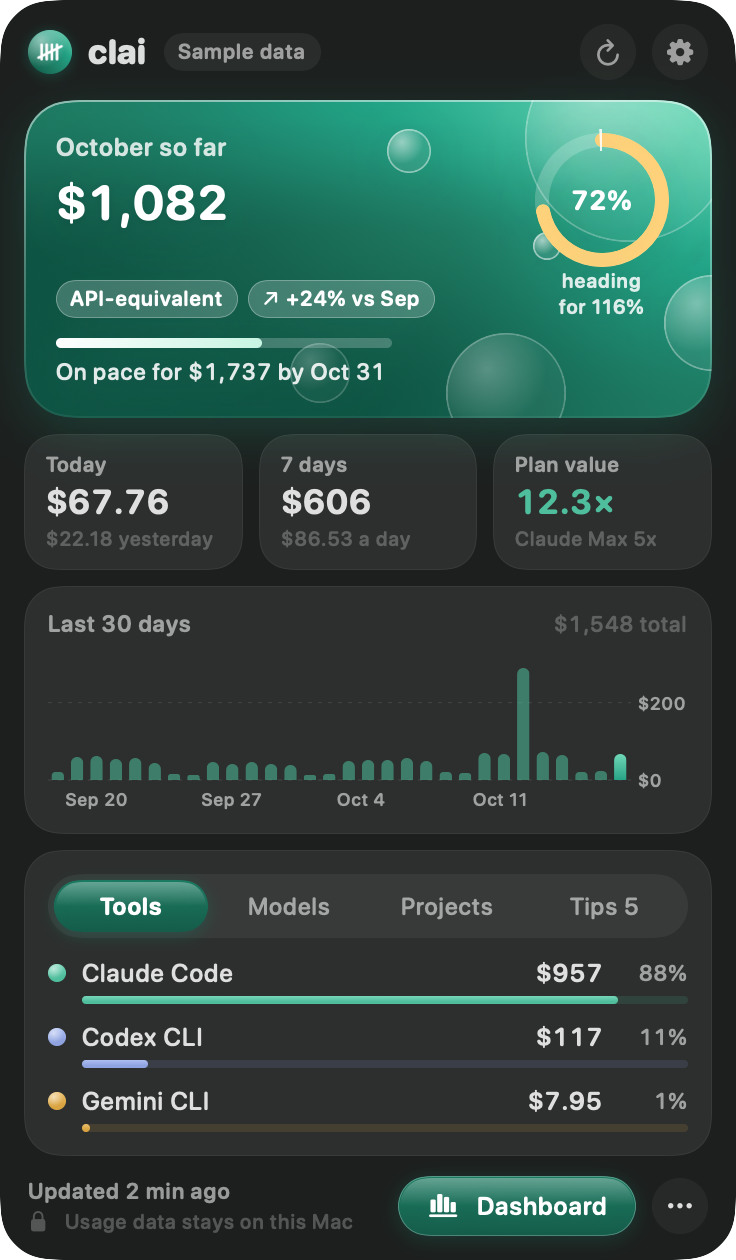
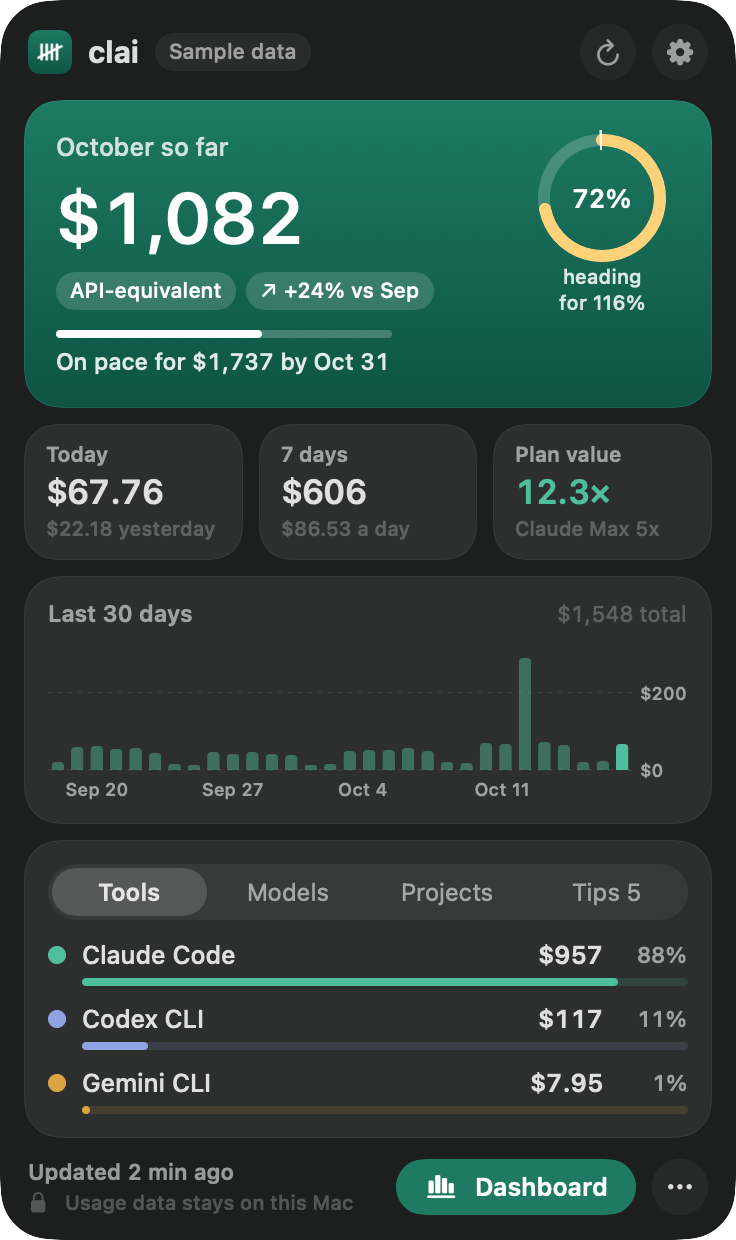
getclai.vercel.app: panel images of the quieter 0.4.1 panel
Light and dark renders from the macos-26 build of 077a741 (sample data),
and the image's new aspect ratio.

Claude-Session: https://claude.ai/code/session_01MEbs9A3YPctuLyUfKhofCP

diff --git a/apps/site/public/index.html b/apps/site/public/index.html
@@ -83,7 +83,7 @@
               <source srcset="/panel-dark.webp" type="image/webp" media="(prefers-color-scheme: dark)" />
               <source srcset="/panel-dark.png" media="(prefers-color-scheme: dark)" />
               <source srcset="/panel-light.webp" type="image/webp" />
-              <img class="panel" src="/panel-light.png" width="368" height="630" alt="The clai panel: October so far $1,082 API-equivalent, on pace for $1,737; today $67.76; 7 days $606; plan value 12.3 times Claude Max 5x; a 30-day bar chart; tools Claude Code, Codex CLI and Gemini CLI." />
+              <img class="panel" src="/panel-light.png" width="368" height="620" alt="The clai panel: October so far $1,082 API-equivalent, on pace for $1,737; today $67.76; 7 days $606; plan value 12.3 times Claude Max 5x; a 30-day bar chart; tools Claude Code, Codex CLI and Gemini CLI." />
             </picture>
           </div>
           <figcaption>The real app, drawn with sample data.</figcaption>
